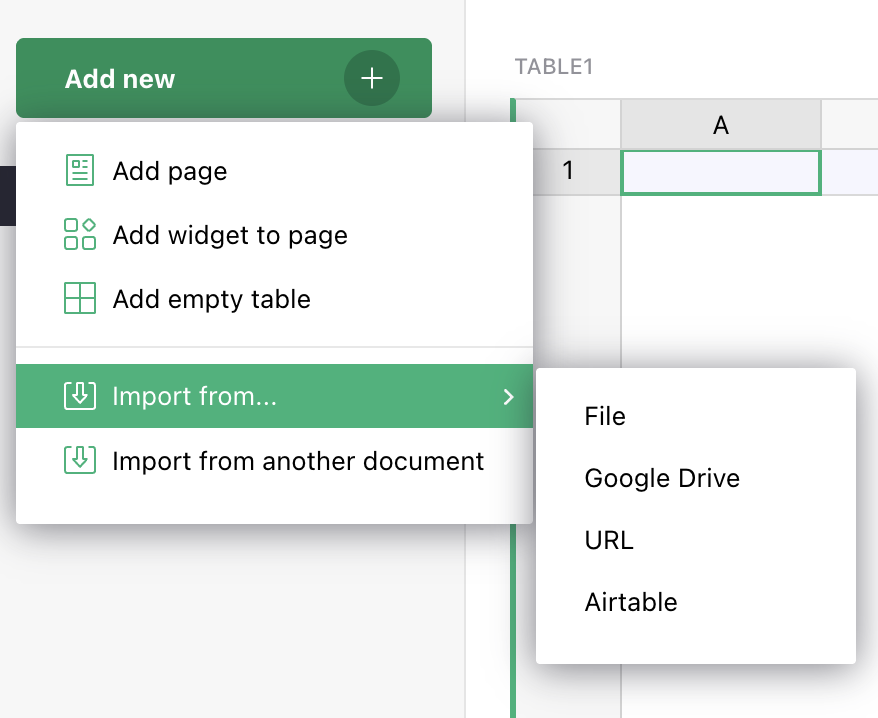
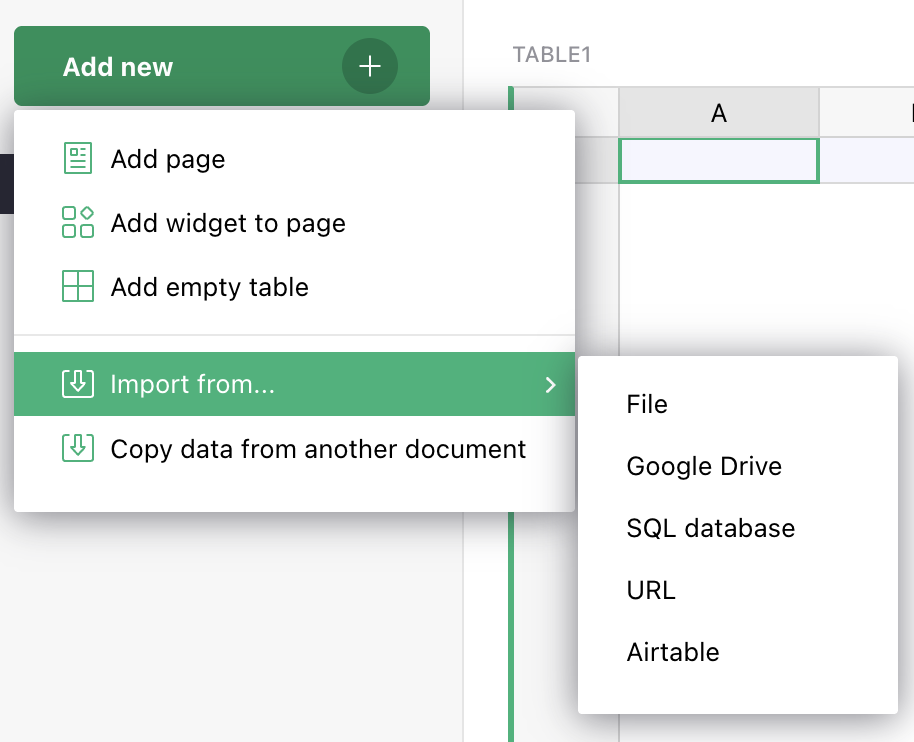
Remove duplicate screenshot

Changed region(s): [[0.0, 0.0306, 1.0, 1.0], [0.9841, 0.1226, 1.0, 0.1532]]

diff --git a/help/en/docs/copying-docs.md b/help/en/docs/copying-docs.md
@@ -120,7 +120,7 @@ and formatting, but it does not include attachments, pages, or widgets.
 
 Begin the copy process by clicking the "Add New" button and choosing "Copy data from another document".
 
-![copy-data-menu](images/copying-docs/copy-data-menu.png)
+![add-new-menu-doc](images/add-new-menu-doc.png)
 
 !!! note "Note"
     "Copy data from another document" is available on Business plan and above, as well as in the full edition of
